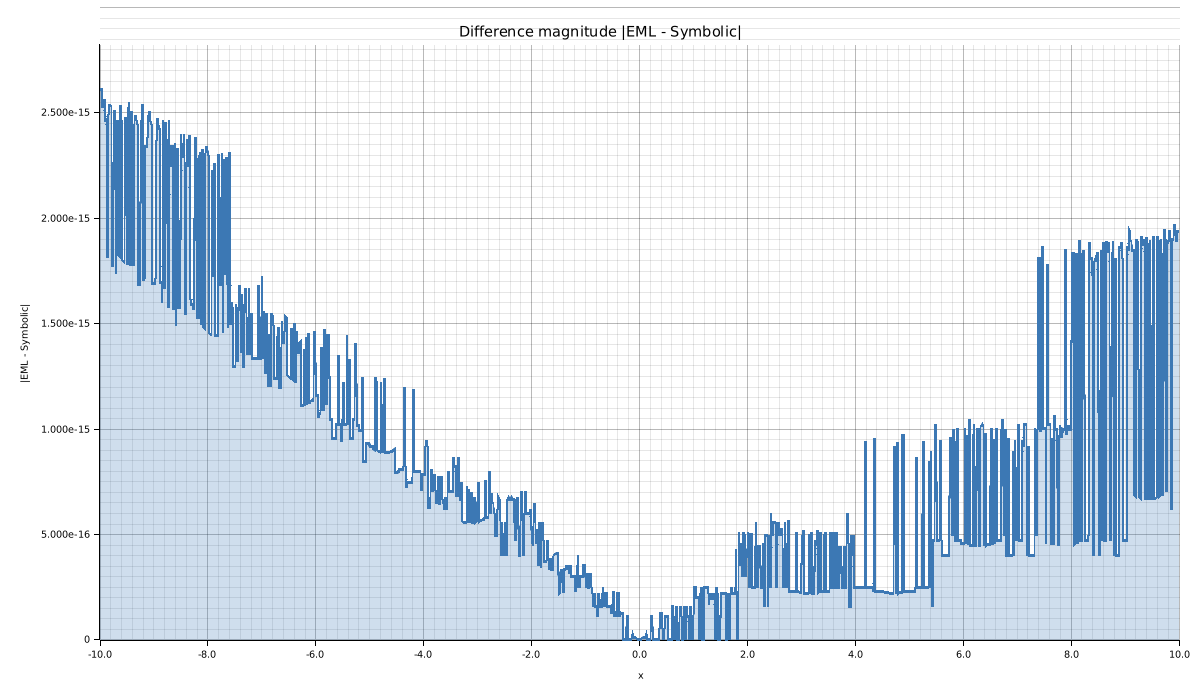
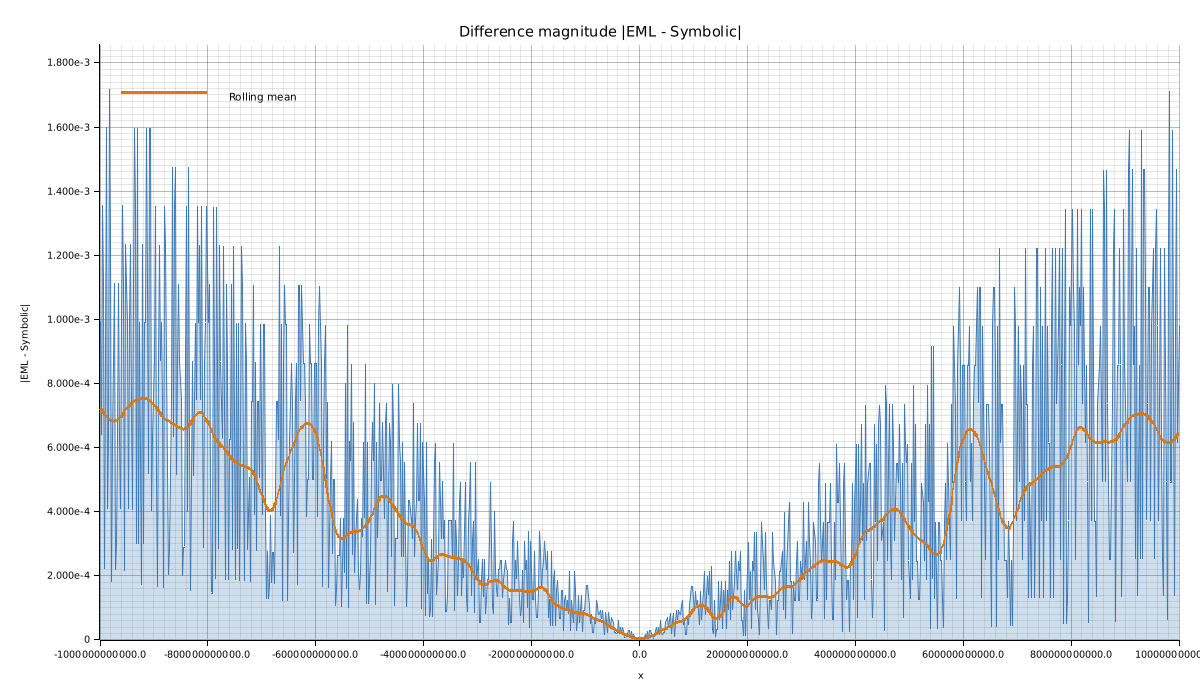
better density

diff --git a/src/bin/plot_eml_from_catalog.rs b/src/bin/plot_eml_from_catalog.rs
@@ -9,6 +9,9 @@
 //!   cargo run --bin plot_eml_from_catalog -- --id 52 --catalog constants_catalog.txt --out id52_plot.png
 //!
 //! The evaluator implements the repo semantics: eml(a,b) = exp(a) - ln(b).
+#[path = "../config.rs"]
+pub mod config;
+
 use std::fs::File;
 use std::io::Read;
 use std::path::PathBuf;
@@ -263,6 +266,16 @@ mod tests {
         assert!((value.re - (std::f64::consts::E)).abs() < 1e-9);
         assert!((value.im + std::f64::consts::PI).abs() < 1e-9);
     }
+
+    #[test]
+    fn rolling_mean_window_grows_with_distance_from_zero() {
+        let values = vec![1.0, 2.0, 3.0, 4.0];
+        let xs = vec![-10.0, -5.0, 0.0, 10.0];
+        let smoothed = rolling_mean(&values, &xs, 2, 1.0);
+        assert_eq!(smoothed.len(), values.len());
+        assert!(smoothed[0].is_finite());
+        assert!(smoothed[3].is_finite());
+    }
 }
 
 /// Read the catalog and extract (symbolic_value, eml_subtree) for a given id.
@@ -507,16 +520,79 @@ fn linspace(xmin: f64, xmax: f64, n: usize) -> Vec<f64> {
     (0..n).map(|i| xmin + (i as f64) * step).collect()
 }
 
+/// Smooths |EML - Symbolic| error data for plotting.
+///
+/// Design choices for this use case:
+/// - Windowing is done in x-distance, not index count, so it's correct even if
+///   `xs` isn't uniformly spaced.
+/// - Boundaries use reflection padding instead of shrinking, so edge points
+///   (x = ±10, where your error is largest) aren't biased by a lopsided window.
+/// - Uses a *median* within each window, not a mean. Your raw data is spiky
+///   (vertical jitter between ULP bands) — a mean gets dragged around by
+///   isolated spikes, a median tracks the "typical band" the error sits in.
+/// - Smoothing is done in log-space. Error values span ~0 to 1e-15 and the
+///   process is multiplicative/ULP-quantized in nature, not additive — log
+///   space keeps a spike near x=0 (where true error is ~1e-17) from being
+///   swamped by neighboring 1e-15 values the way a linear mean would.
+/// - Window width still grows with |x| (your original intent: trust the
+///   center more, smooth the noisier tails more), but is now expressed as
+///   an x-distance fraction, decoupled from sample spacing.
+fn rolling_mean(
+    values: &[f64],
+    xs: &[f64],
+    base_half_width_frac: f64,
+    edge_growth: f64,
+) -> Vec<f64> {
+    let n = values.len();
+    if n == 0 { return vec![]; }
+
+    let x_min = xs.iter().cloned().fold(f64::INFINITY, f64::min);
+    let x_max = xs.iter().cloned().fold(f64::NEG_INFINITY, f64::max);
+    let x_range = (x_max - x_min).max(f64::EPSILON);
+    let x_mid = 0.5 * (x_min + x_max);
+    let max_abs_dist = (x_range / 2.0).max(f64::EPSILON);
+
+    let floor = 1e-18;
+    let log_vals: Vec<f64> = values.iter().map(|&v| v.max(floor).ln()).collect();
+
+    let mut out = Vec::with_capacity(n);
+    for i in 0..n {
+        let x = xs[i];
+        let dist_ratio = ((x - x_mid).abs() / max_abs_dist).min(1.0);
+        let half_width = (base_half_width_frac * x_range * (1.0 + edge_growth * dist_ratio))
+            .min(max_abs_dist * 0.9);
+
+        // Gaussian-weighted mean instead of a hard window + median.
+        // sigma = half_width/2 gives a smooth falloff instead of a hard cutoff,
+        // which is what actually removes the stair-stepping.
+        let sigma = (half_width / 2.0).max(f64::EPSILON);
+        let mut weighted_sum = 0.0;
+        let mut weight_total = 0.0;
+        for j in 0..n {
+            let d = xs[j] - x;
+            let w = (-0.5 * (d / sigma).powi(2)).exp();
+            weighted_sum += w * log_vals[j];
+            weight_total += w;
+        }
+        let mean_log = if weight_total > 0.0 { weighted_sum / weight_total } else { log_vals[i] };
+        out.push(mean_log.exp());
+    }
+    out
+}
+
 fn main() -> Result<(), Box<dyn Error>> {
     let mut args = std::env::args().skip(1);
     let mut id_opt: Option<usize> = None;
     // default catalog is symbolic_catalog.txt per your request
     let mut catalog = "symbolic_catalog.txt".to_string();
-    let mut xmin = -10.0f64;
-    let mut xmax = 10.0f64;
+    let mut xmin = config::PLOT_XMIN;
+    let mut xmax = config::PLOT_XMAX;
     let mut n = 1000usize;
+    let mut smooth_window = config::PLOT_SMOOTHING_WINDOW;
+    let mut smooth_scale = config::PLOT_SMOOTHING_SCALE;
     let mut out = "plot.png".to_string();
     let mut density_out = "density.png".to_string();
+    let mut density_smooth_out = "density_smooth.png".to_string();
 
     while let Some(arg) = args.next() {
         match arg.as_str() {
@@ -525,10 +601,13 @@ fn main() -> Result<(), Box<dyn Error>> {
             "--xmin" => { if let Some(v) = args.next() { xmin = v.parse()?; } }
             "--xmax" => { if let Some(v) = args.next() { xmax = v.parse()?; } }
             "--n" => { if let Some(v) = args.next() { n = v.parse()?; } }
+            "--smooth-window" => { if let Some(v) = args.next() { smooth_window = v.parse()?; } }
+            "--smooth-scale" => { if let Some(v) = args.next() { smooth_scale = v.parse()?; } }
             "--out" => { if let Some(v) = args.next() { out = v; } }
             "--density-out" => { if let Some(v) = args.next() { density_out = v; } }
+            "--density-smooth-out" => { if let Some(v) = args.next() { density_smooth_out = v; } }
             "--help" | "-h" => {
-                println!("Usage: --id <N> [--catalog <file>] [--xmin <f>] [--xmax <f>] [--n <samples>] [--out <file>] [--density-out <file>]");
+                println!("Usage: --id <N> [--catalog <file>] [--xmin <f>] [--xmax <f>] [--n <samples>] [--smooth-window <n>] [--smooth-scale <f>] [--out <file>] [--density-out <file>] [--density-smooth-out <file>]");
                 return Ok(());
             }
             other => { eprintln!("Unknown argument: {}", other); }
@@ -707,17 +786,95 @@ fn main() -> Result<(), Box<dyn Error>> {
         })
         .draw()?;
 
+    let raw_points: Vec<(f64, f64)> = diff_vals.iter().cloned().collect();
+    let raw_values: Vec<f64> = raw_points.iter().map(|(_, v)| *v).collect();
+    let xs_for_smoothing: Vec<f64> = raw_points.iter().map(|(x, _)| *x).collect();
+    let smoothed_values = rolling_mean(&raw_values, &xs_for_smoothing, smooth_window, smooth_scale);
+    let smoothed_points: Vec<(f64, f64)> = raw_points.iter().enumerate()
+        .map(|(i, (x, _))| (*x, smoothed_values[i]))
+        .collect();
+
     density_chart.draw_series(AreaSeries::new(
-        diff_vals.iter().cloned(),
+        raw_points.iter().cloned(),
         0.0,
         &RGBColor(60, 120, 180).mix(0.25),
     ))?;
     density_chart.draw_series(LineSeries::new(
-        diff_vals.iter().cloned(),
-        ShapeStyle::from(&RGBColor(60, 120, 180)).stroke_width(2),
+        raw_points.iter().cloned(),
+        ShapeStyle::from(&RGBColor(60, 120, 180)).stroke_width(1),
     ))?;
+    density_chart.draw_series(LineSeries::new(
+        smoothed_points.clone(),
+        ShapeStyle::from(&RGBColor(220, 120, 20)).stroke_width(2),
+    ))?;
+
+    let lx = xmin + (xmax - xmin) * 0.02;
+    let ly = density_ymax - (density_ymax - density_ymin) * 0.08;
+    let lx2 = lx + (xmax - xmin) * 0.08;
+    density_chart.draw_series(LineSeries::new(
+        vec![(lx, ly), (lx2, ly)],
+        ShapeStyle::from(&RGBColor(220, 120, 20)).stroke_width(2),
+    ))?;
+    density_chart.draw_series(std::iter::once(Text::new(
+        "Rolling mean",
+        ((lx2 + (xmax - xmin) * 0.02), ly),
+        ("sans-serif", 13).into_font(),
+    )))?;
 
     density_root.present()?;
     println!("Saved density chart to {}", density_path.display());
+
+    let smooth_path = PathBuf::from(&density_smooth_out);
+    let smooth_root = BitMapBackend::new(&smooth_path, (1200, 700)).into_drawing_area();
+    smooth_root.fill(&WHITE)?;
+
+    let mut smooth_chart = ChartBuilder::on(&smooth_root)
+        .margin(20)
+        .caption("Smoothed difference magnitude |EML - Symbolic|", ("sans-serif", 18).into_font())
+        .x_label_area_size(40)
+        .y_label_area_size(80)
+        .build_cartesian_2d(xmin..xmax, density_ymin..density_ymax)?;
+
+    smooth_chart.configure_mesh()
+        .x_desc("x")
+        .y_desc("|EML - Symbolic|")
+        .y_label_formatter(&|v: &f64| {
+            if *v == 0.0 {
+                "0".to_string()
+            } else {
+                format!("{:.3e}", v)
+            }
+        })
+        .draw()?;
+
+    smooth_chart.draw_series(AreaSeries::new(
+        raw_points.iter().cloned(),
+        0.0,
+        &RGBColor(120, 160, 220).mix(0.15),
+    ))?;
+    smooth_chart.draw_series(LineSeries::new(
+        raw_points.iter().cloned(),
+        ShapeStyle::from(&RGBColor(120, 160, 220)).stroke_width(1),
+    ))?;
+    smooth_chart.draw_series(LineSeries::new(
+        smoothed_points.clone(),
+        ShapeStyle::from(&RGBColor(220, 120, 20)).stroke_width(2),
+    ))?;
+
+    let lx = xmin + (xmax - xmin) * 0.02;
+    let ly = density_ymax - (density_ymax - density_ymin) * 0.08;
+    let lx2 = lx + (xmax - xmin) * 0.08;
+    smooth_chart.draw_series(LineSeries::new(
+        vec![(lx, ly), (lx2, ly)],
+        ShapeStyle::from(&RGBColor(220, 120, 20)).stroke_width(2),
+    ))?;
+    smooth_chart.draw_series(std::iter::once(Text::new(
+        "Rolling mean",
+        ((lx2 + (xmax - xmin) * 0.02), ly),
+        ("sans-serif", 13).into_font(),
+    )))?;
+
+    smooth_root.present()?;
+    println!("Saved smoothed density chart to {}", smooth_path.display());
     Ok(())
 }

diff --git a/src/config.rs b/src/config.rs
@@ -2,3 +2,13 @@
 /// same" across the crate. This single source-of-truth keeps arena-level
 /// interning, e-graph folding, and other numeric comparisons consistent.
 pub const MACHINE_TOLERANCE: f64 = 1e-12;
+
+/// Default x-range used by the plotting workflow.
+pub const PLOT_XMIN: f64 = -1000000000000.0;
+pub const PLOT_XMAX: f64 = 1000000000000.0;
+
+/// Base window size used for the rolling-average smoothing curve.
+pub const PLOT_SMOOTHING_WINDOW: f64 = 0.01;
+
+/// How strongly the smoothing window grows with distance from zero.
+pub const PLOT_SMOOTHING_SCALE: f64 = 1.0;

diff --git a/src/main.rs b/src/main.rs
@@ -275,6 +275,14 @@ fn main() {
         .arg("--")
         .arg("--catalog")
         .arg("symbolic_catalog.txt")
+        .arg("--xmin")
+        .arg(config::PLOT_XMIN.to_string())
+        .arg("--xmax")
+        .arg(config::PLOT_XMAX.to_string())
+        .arg("--smooth-window")
+        .arg(config::PLOT_SMOOTHING_WINDOW.to_string())
+        .arg("--smooth-scale")
+        .arg(config::PLOT_SMOOTHING_SCALE.to_string())
         .arg("--out")
         .arg("plot.png")
         .arg("--density-out")
